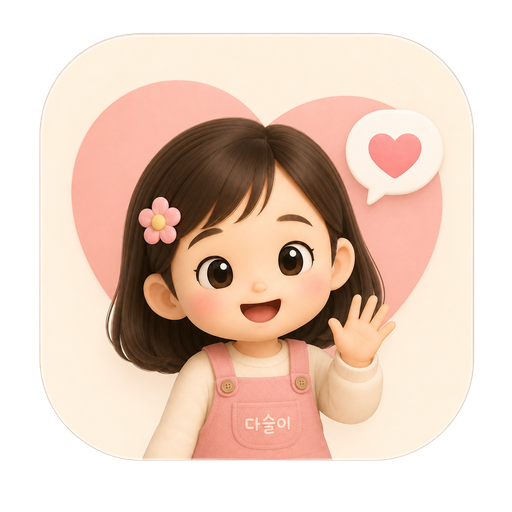
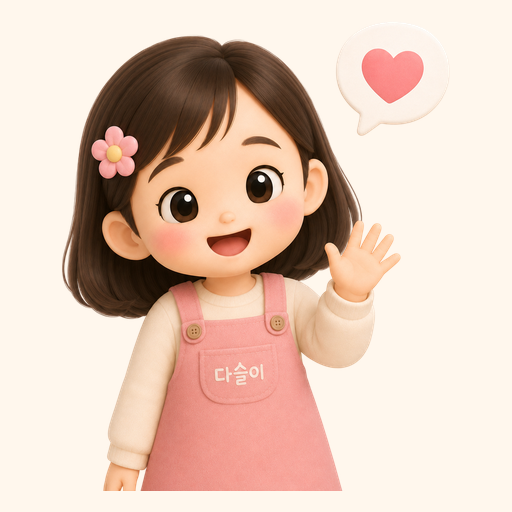
style: PWA 설치 아이콘을 다슬 인사 이미지로 교체
일반·마스커블·Apple Touch 아이콘을 새 다슬 이미지로 갱신했다.

새 설치 아이콘이 기존 캐시에 가려지지 않도록 서비스 워커 셸 캐시 버전을 올렸다.

diff --git a/apps/frontend/public/sw.js b/apps/frontend/public/sw.js
@@ -1,4 +1,4 @@
-const SHELL_CACHE = 'maeum-itda-shell-v3'
+const SHELL_CACHE = 'maeum-itda-shell-v4'
 const SHELL_ASSETS = [
   '/',
   '/manifest.webmanifest',
